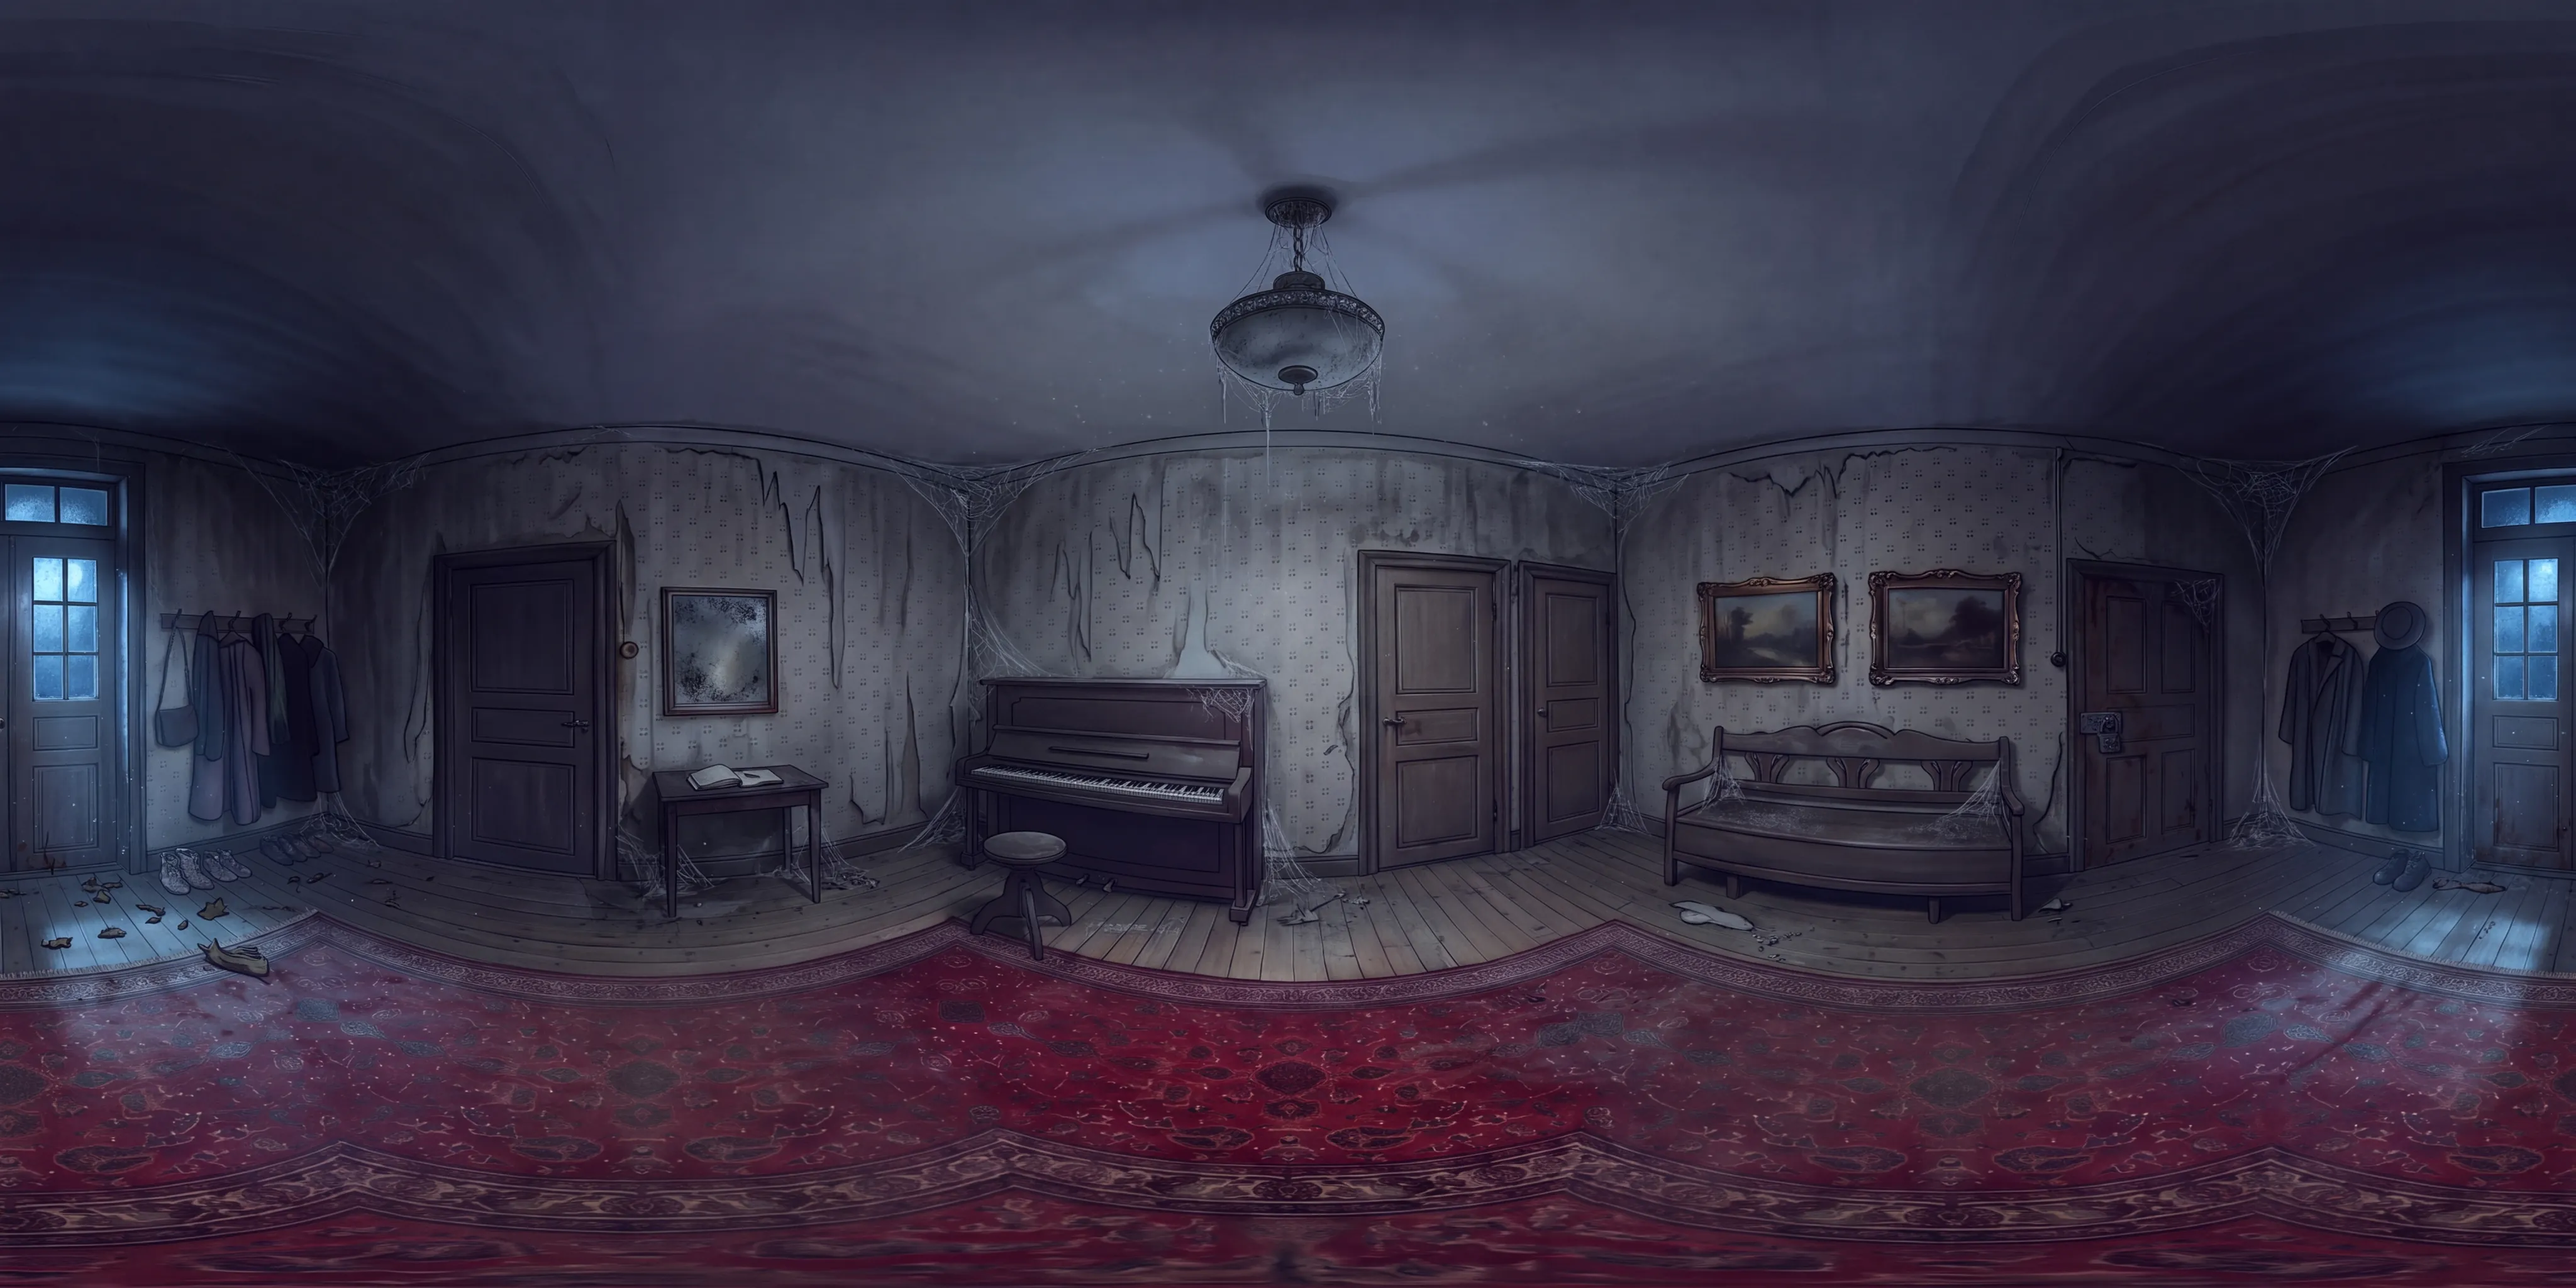
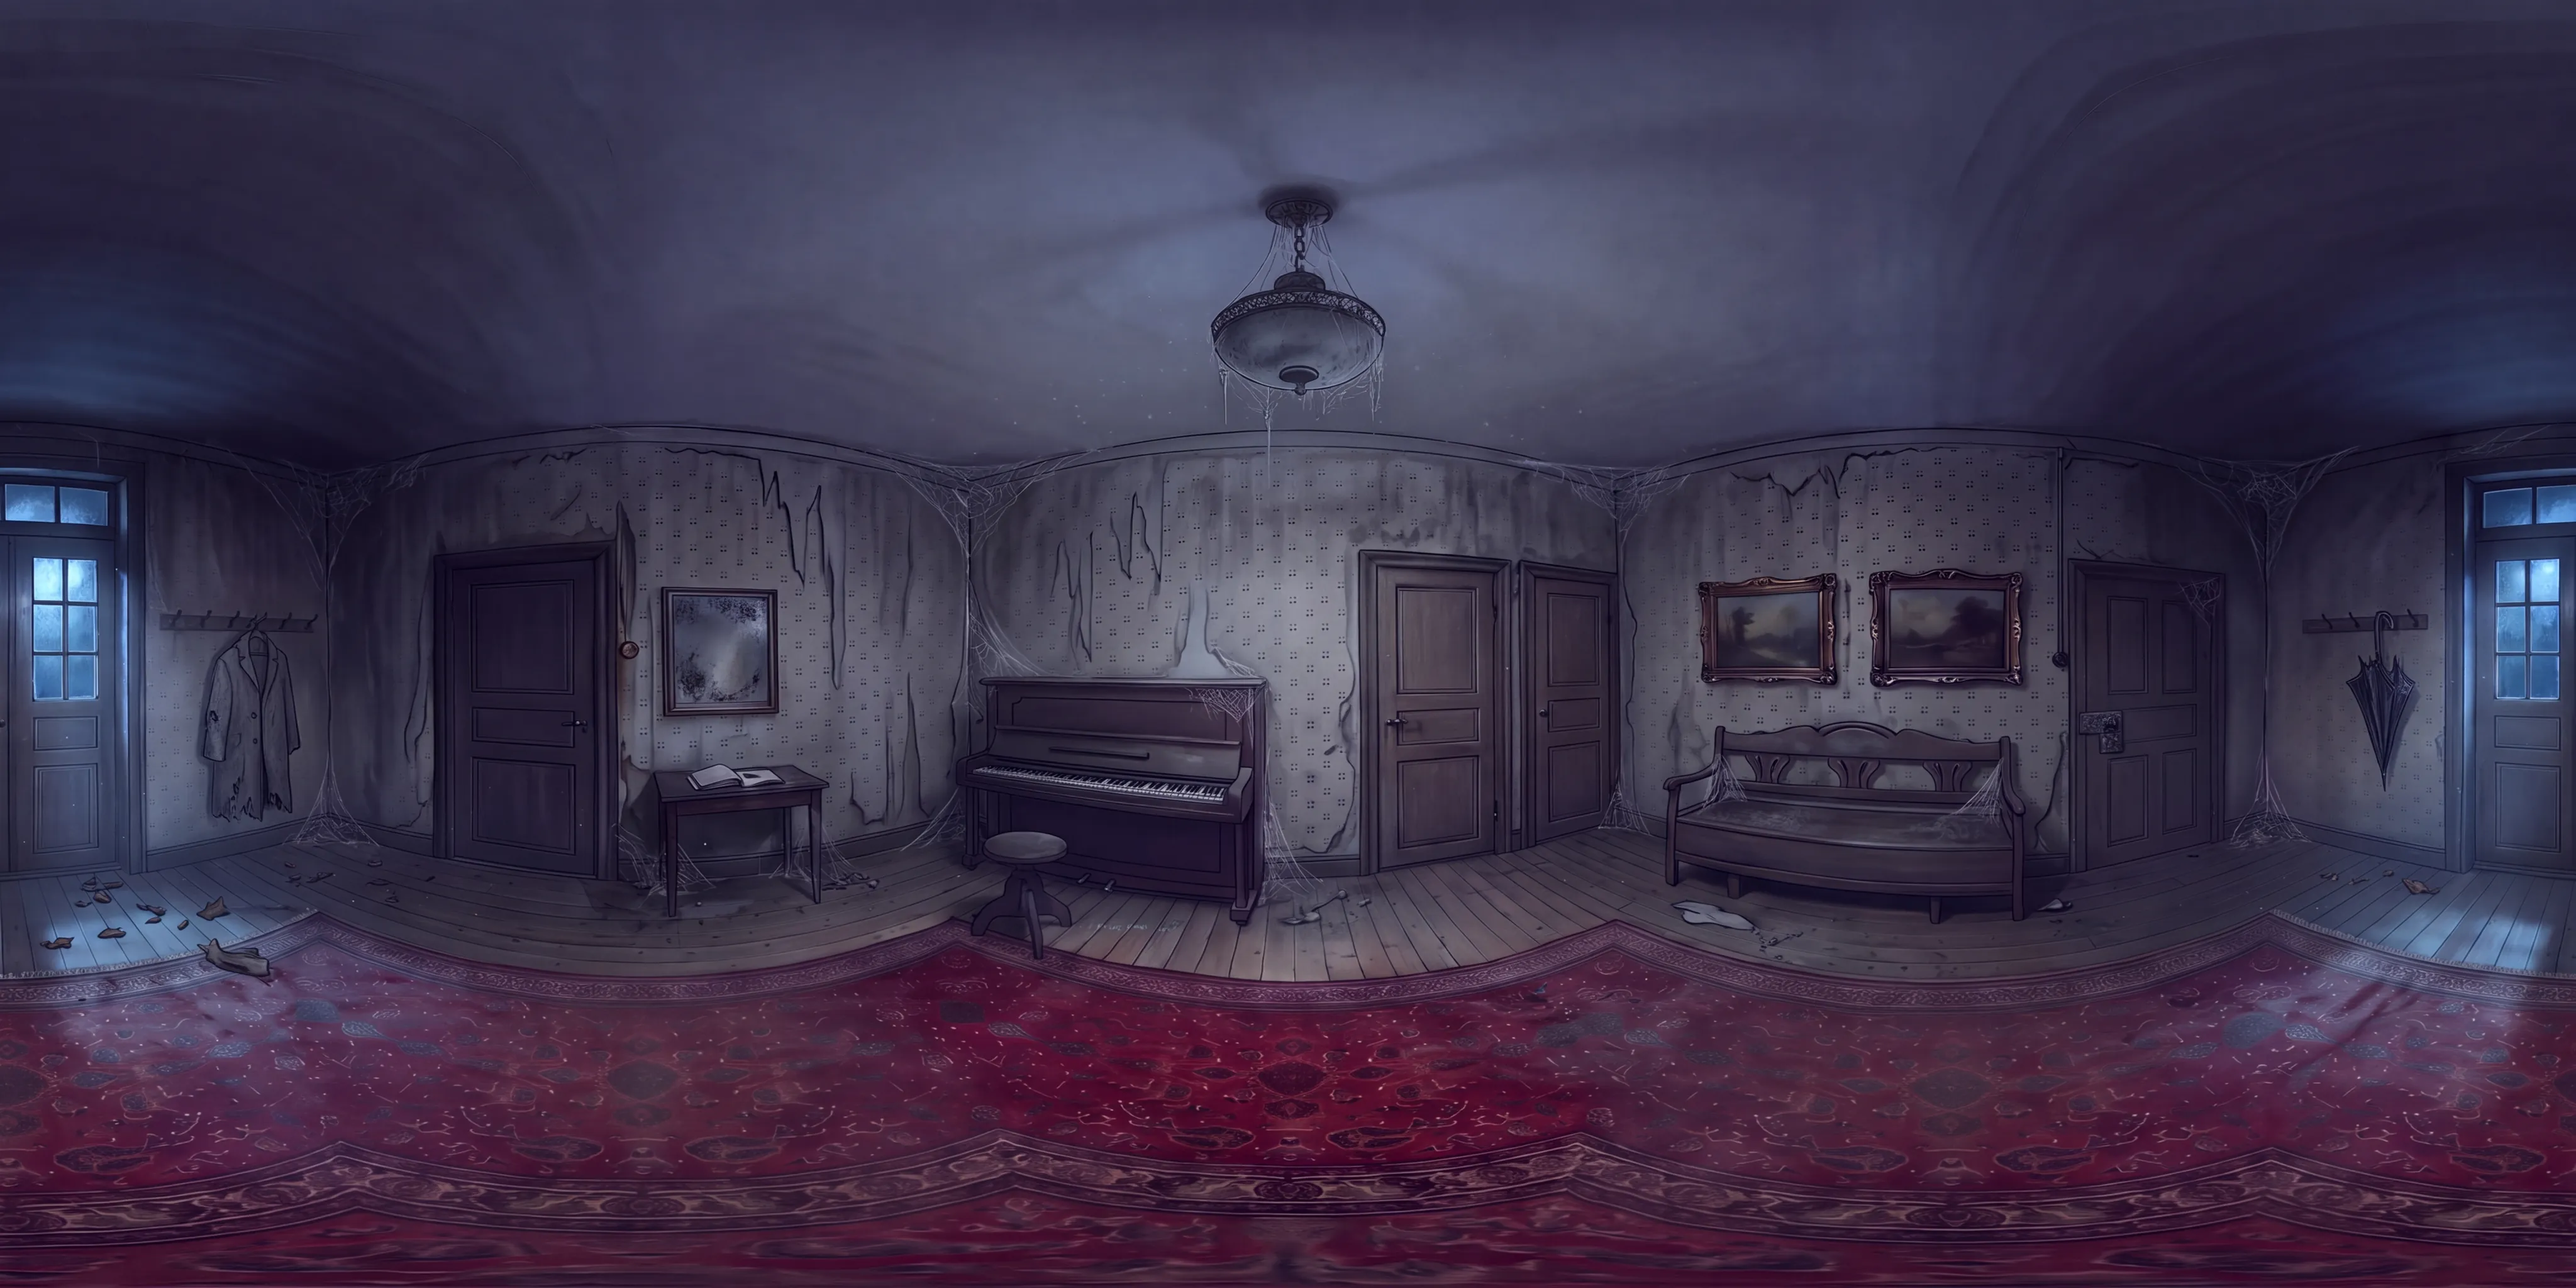
Ta bort lampan i spegeln och gästernas kläder i dag
Spegeln 1962 visar bara tapeten. I dag hänger bara en sliten rock och
ett paraply vid ytterdörren (Jonas 2026-11-20).

Claude-Session: https://claude.ai/code/session_01X82C4CqheV7jTaXH9cVkV3

diff --git a/src/config.ts b/src/config.ts
@@ -6,4 +6,4 @@ export const SUPABASE_PUBLIC_KEY = 'sb_publishable_aa--NTfRkU6vqDZUqgXMPw_o2LBJh
 
 // Visas på sidan och i felsökningsloggen, så att det syns om mobilen kör en
 // gammal sida ur cachen. Höjs vid varje ändring av webbsidan.
-export const VERSION = '2026-11-20.82';
+export const VERSION = '2026-11-20.83';

diff --git a/docs/koncept.md b/docs/koncept.md
@@ -264,7 +264,7 @@ Det är de enda tillfällena då gruppen splittras på riktigt, och de blir star
 
 Huset är en rektangel med en våning och källare. Övervåningen är borttagen (Jonas 2026-11-20). Ytterdörren leder in i hallen, mitt på husets framsida. Rakt fram ligger salongen, till vänster sovrummet och till höger köket. Sovrummet var tidigare ett bibliotek, och byrån med tidningsurklippen står kvar där (Jonas 2026-11-20). Källaren ligger under huset, med det dolda rummet bakom.
 
-- **Hallen.** Dörren till salongen sitter längst till höger i hallens bortre vägg, med pianot till vänster om den. Dörren till köket sitter strax till höger om salongsdörren. Dörren till sovrummet sitter långt ner på vänstra väggen. I högra hörnet vid ytterväggen ligger källartrappan, bakom den låsta källardörren (Jonas 2026-11-18). Väggen vid källardörren går hela vägen från köket ner till ytterväggen, och dörren sitter längst ner i den (Jonas 2026-11-20). Trappan fyller utrymmet mellan väggen, köket och ytterväggen och är en vinkeltrappa: den börjar längst ner vid källardörren, går längs ytterväggen och svänger i hörnet (Jonas 2026-11-20). Trappan upp till övervåningen är borttagen (Jonas 2026-11-20). Mellan köksdörren och källardörren står en hallsoffa i mörkt trä med hög rygg. Den har ingen funktion i spelet (Jonas 2026-11-20). Ovanför soffan hänger två tavlor, och mitt i rummet ligger en kvadratisk matta, ungefär tre gånger tre meter, med betraktaren mitt på (Jonas 2026-11-20). Ytterdörren är en pardörr. Dörrarna till salongen, köket och sovrummet är vanliga dörrar, och källardörren är en vanlig dörr med hänglås (Jonas 2026-11-20).
+- **Hallen.** Dörren till salongen sitter längst till höger i hallens bortre vägg, med pianot till vänster om den. Dörren till köket sitter strax till höger om salongsdörren. Dörren till sovrummet sitter långt ner på vänstra väggen. I högra hörnet vid ytterväggen ligger källartrappan, bakom den låsta källardörren (Jonas 2026-11-18). Väggen vid källardörren går hela vägen från köket ner till ytterväggen, och dörren sitter längst ner i den (Jonas 2026-11-20). Trappan fyller utrymmet mellan väggen, köket och ytterväggen och är en vinkeltrappa: den börjar längst ner vid källardörren, går längs ytterväggen och svänger i hörnet (Jonas 2026-11-20). Trappan upp till övervåningen är borttagen (Jonas 2026-11-20). Mellan köksdörren och källardörren står en hallsoffa i mörkt trä med hög rygg. Den har ingen funktion i spelet (Jonas 2026-11-20). Ovanför soffan hänger två tavlor, och mitt i rummet ligger en kvadratisk matta, ungefär tre gånger tre meter, med betraktaren mitt på (Jonas 2026-11-20). I dag är gästernas rockar och skor borta. Vid ytterdörren hänger bara en sliten gammal rock och ett paraply (Jonas 2026-11-20). Ytterdörren är en pardörr. Dörrarna till salongen, köket och sovrummet är vanliga dörrar, och källardörren är en vanlig dörr med hänglås (Jonas 2026-11-20).
 - **Salongen i mitten.** Alla rum nås från hallen. Salongen har dessutom en dörr till sovrummet och en till köket (Jonas 2026-11-20). Dörren till sovrummet sitter i salongens vänstra vägg och dörren till köket i den högra, båda längst bort från hallen (Jonas 2026-11-20).
 - **Dörrarna i rundbilderna.** I rundbilderna är alla rum kvadratiska, så att varje vägg blir en fjärdedel av varvet (Jonas 2026-11-18). Dörrarna ska sitta på rätt ställe i rummen enligt planlösningen, och i beskrivningen till Gemini anges varje dörr med vägg och läge, till exempel vänstra väggen nära hörnet mot ytterväggen (Jonas 2026-11-18). Gemini följer inte alltid beskrivningen exakt, så de tryckbara dörrarna placeras där de hamnade i bilden, och en bild med en dörr på fel vägg tas fram på nytt. Betraktaren står alltid mitt i rummet (Jonas 2026-11-20). Gemini får därför en ritad mall av rummet i rätt projektion, `tools/rundbildsmall.py`, och målar rummet på den. Mallen är en skuggad grå låda, och Gemini ritar hela rundbilden själv, inte vägg för vägg (Jonas 2026-11-20). Mitt i rummet valdes framför en bit in från ytterdörren, eftersom varje vägg då har en fast plats i bilden och samma mall fungerar för alla rum (Jonas 2026-11-20). Står en möbel mitt i rummet, som bordet med ouijabrädet i salongen, flyttas betraktaren en halvmeter åt sidan. Rundbilderna görs som modern tecknad målning: penseldrag över tydliga tuschlinjer, djupa skuggor och dämpade färger. Fotona är pausade men ligger kvar på testsidan (Jonas 2026-11-20). Bilden från 1962 tas fram först, när allt är helt och rent, och bilden från i dag är en redigering av den, så att inga skavanker syns i minnet (Jonas 2026-11-20).
 

diff --git a/docs/rundbilder-prov.md b/docs/rundbilder-prov.md
@@ -282,3 +282,8 @@ och 1962 står det fem par skor vid ytterdörren.
   beskrivningen av förfallet, behölls rummet.
 - Rena konturer är borttagen från testsidan, liksom det första målade
   förslaget.
+- **Justeringar** (Jonas 2026-11-20). Spegeln 1962 visade en lampa som inte
+  finns på väggen mittemot och visar nu bara tapeten. I dag är gästernas
+  kläder och skor borta, eftersom de tog dem när de flydde. Kvar hänger en
+  sliten gammal rock och ett trasigt paraply. Rödbruna fläckar på ytterdörren
+  togs bort.
